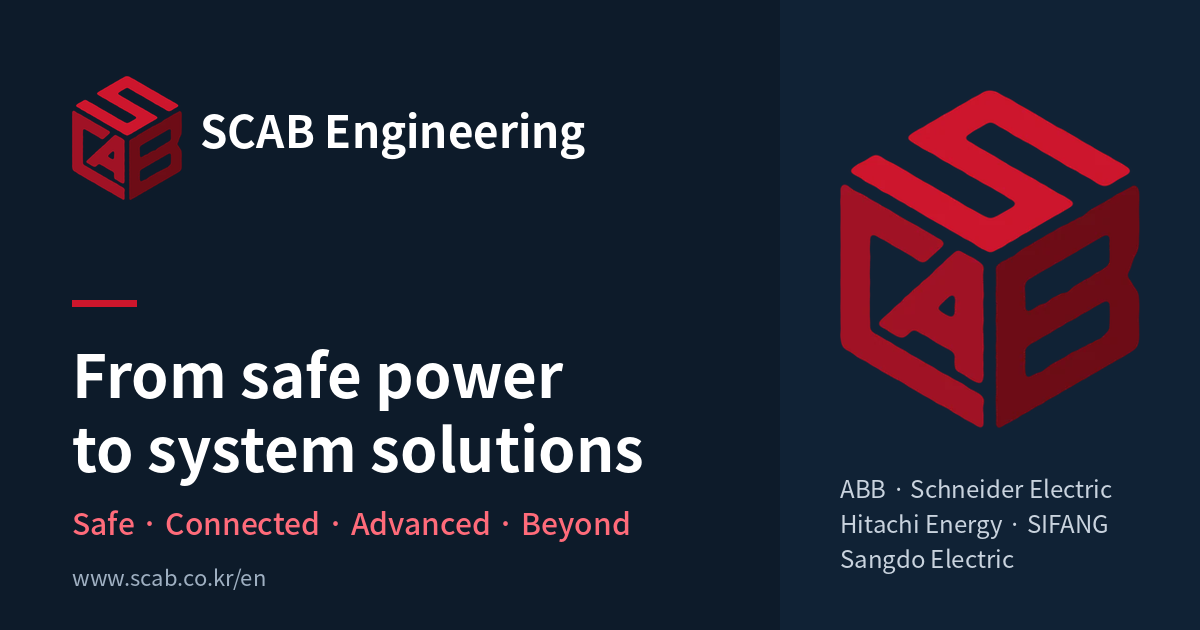
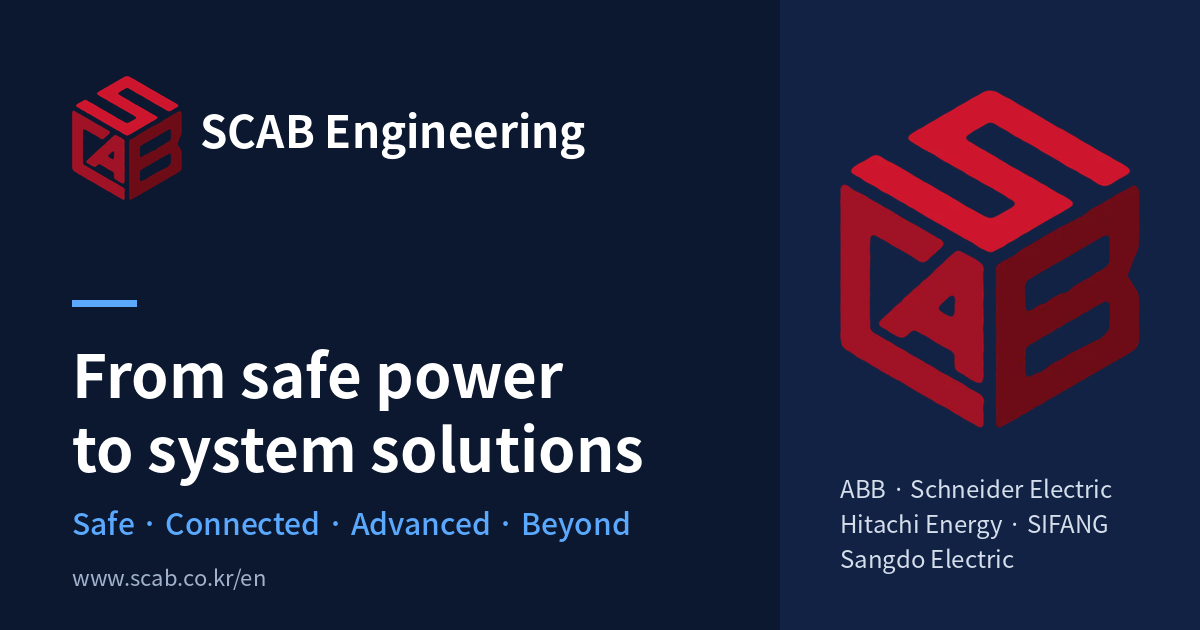
Switch site tone to Power Blue (KO/EN, OG images, 404)
Default tone is now blue (#0057B8, dark #5AA9FF); the logo keeps its own red.
Heading accent bars, busbar toggle and 404 buttons follow the accent token.

Claude-Session: https://claude.ai/code/session_01NqrjRai6QrXnpZj5BWDwmU

Changed region(s): [[0.0617, 0.8143, 0.5242, 0.8746], [0.0617, 0.4524, 0.1233, 0.5127]]

diff --git a/index.html b/index.html
@@ -1,5 +1,5 @@
 <!doctype html>
-<html lang="ko"><head><meta charset="utf-8"><meta name="viewport" content="width=device-width,initial-scale=1,viewport-fit=cover">
+<html lang="ko" data-tone="blue"><head><meta charset="utf-8"><meta name="viewport" content="width=device-width,initial-scale=1,viewport-fit=cover">
 <meta name="robots" content="index, follow">
 <link rel="icon" href="/favicon.ico" sizes="any">
 <link rel="icon" type="image/png" sizes="32x32" href="/icon-32.png">
@@ -28,7 +28,7 @@
 <link rel="stylesheet" href="https://fonts.googleapis.com/css2?family=IBM+Plex+Mono:wght@400;500;600&family=IBM+Plex+Sans+KR:wght@300;400;500;600;700&display=swap">
 <style>
 /* Layout: ABB식 기업 사이트 구조 — 유틸리티 바 + 메가메뉴 고정 헤더, 네이비 히어로(도면 격자 + SCAB 큐브 워터마크), 흰 본문과 쿨그레이 패널 교차,
-   서브페이지는 좌측 LNB + 본문. 반응형은 컨테이너 쿼리. 톤앤매너는 data-tone으로 전환 (기본: SCAB Red · Navy, v0.6부터) */
+   서브페이지는 좌측 LNB + 본문. 반응형은 컨테이너 쿼리. 톤앤매너는 data-tone으로 전환 (기본: Power Blue, 2026-11-11부터) */
 :root{
   --ac:#C0142A; --ac-strong:#9A1022; --ac-soft:#FBEBED; --ac-hl:#FF6B7A; --ac-btn:#CD162C; --ac-btn-h:#A8121F; --ac-ink:#FFFFFF; --err:#C8102E;
   --sw-on:#D7263D; --ink:#16202A; --title:#3B4754; --muted:#5F6B77; --faint:#94A0AB; --bg:#FFFFFF; --panel:#F2F5F7; --panel-2:#E4E9EE;
@@ -271,7 +271,7 @@ ul{margin:0;padding:0;list-style:none}
 :root{--logo-red:#CD162C}
 @media (prefers-color-scheme:dark){:root:not([data-theme="light"]){--logo-red:#FF5A6A}}
 :root[data-theme="dark"]{--logo-red:#FF5A6A}
-.t2::before{content:"";position:absolute;left:0;top:0;width:36px;height:4px;background:var(--logo-red)}
+.t2::before{content:"";position:absolute;left:0;top:0;width:36px;height:4px;background:var(--ac)}
 .sec.dark .t2{color:#fff}
 .t3{font-size:21px;font-weight:700;color:var(--title);line-height:1.4}
 .lead{color:var(--muted);font-size:17px;max-width:64ch}
@@ -538,7 +538,7 @@ td.hl{color:var(--ac);font-weight:600}
 .dg-ctrl button.on{background:var(--ink);color:var(--bg);border-color:var(--ink)}
 .bbv-tg{position:absolute;top:6px;right:6px;z-index:2;display:flex;border:1px solid rgba(255,255,255,.28);background:rgba(9,20,32,.55)}
 .bbv-tg button{height:30px;padding-inline:12px;border:0;background:transparent;color:#C9D3DE;font:600 12.5px/1 var(--f-mono,ui-monospace,monospace);letter-spacing:.04em;cursor:pointer}
-.bbv-tg button.on{background:var(--ac-btn,#CD162C);color:#fff}
+.bbv-tg button.on{background:var(--ac-btn,#0057B8);color:var(--ac-ink,#fff)}
 .bbv-tg button:focus-visible{outline:2px solid #fff;outline-offset:-2px}
 .bb-sel{display:flex;align-items:center;gap:10px;flex-wrap:wrap;margin-top:12px}.bb-sel .lb{font-size:13px;color:var(--muted);font-weight:600}.bb-sel .dg-ctrl{margin-top:0}
 .dg-cap{margin-top:12px;font-size:14.5px;color:var(--ink);min-height:2.8em}
@@ -1701,18 +1701,18 @@ const A=n=>`assets/${n}.webp`;
 const RM=window.matchMedia('(prefers-reduced-motion: reduce)').matches;
 const VERSION='v0.7', VDATE='2026-11-06';
 const TONES={
- scab:{ko:'SCAB 레드 × 네이비',name:'SCAB Red · Navy',rec:true,hero:'#0D1B2A',btn:'#CD162C',ink:'#FFFFFF',ac:'#C0142A',hl:'#FF6B7A',panel:'#F2F5F7',title:'#3B4754',
+ scab:{ko:'SCAB 레드 × 네이비',name:'SCAB Red · Navy',hero:'#0D1B2A',btn:'#CD162C',ink:'#FFFFFF',ac:'#C0142A',hl:'#FF6B7A',panel:'#F2F5F7',title:'#3B4754',
   why:'회사 로고의 레드를 포인트로 쓰고 배경은 딥 네이비를 유지합니다. 레드 · 검정 조합을 피해 ABB · Hitachi Energy 사이트와 인상이 겹치지 않게 했습니다. (v0.6 기본)'},
  teal:{ko:'네이비 · 틸',name:'Grid Navy · Teal',hero:'#0D1B2A',btn:'#007A85',ink:'#FFFFFF',ac:'#007A85',hl:'#3CC8D2',panel:'#F2F5F7',title:'#3B4754',
   why:'v0.5까지의 기본 톤입니다. 딥 네이비 바탕에 Schneider 그린과 SIFANG 블루 사이의 틸을 포인트로 씁니다.'},
- blue:{ko:'파워 블루',name:'Power Blue',hero:'#0B1830',btn:'#0057B8',ink:'#FFFFFF',ac:'#0057B8',hl:'#5AA9FF',panel:'#F2F4F8',title:'#3A4658',
+ blue:{ko:'파워 블루',name:'Power Blue',rec:true,hero:'#0B1830',btn:'#0057B8',ink:'#FFFFFF',ac:'#0057B8',hl:'#5AA9FF',panel:'#F2F4F8',title:'#3A4658',
   why:'국내외 전력기기 · 전력회사에서 가장 흔한 신뢰형 블루입니다. 안정적이지만 SIFANG · 상도일렉트릭의 블루와 가깝게 보일 수 있습니다.'},
  amber:{ko:'그래파이트 · 볼트',name:'Graphite · Volt',hero:'#1B2026',btn:'#F2A900',ink:'#1A1A1A',ac:'#8A5D00',hl:'#F5B700',panel:'#F3F4F5',title:'#3F454C',
   why:'그래파이트 바탕에 전기 위험 경고 표지의 노랑에서 온 앰버를 포인트로 씁니다. 산업 현장 · 엔지니어링 성격이 강하고 취급 브랜드 색과 겹치지 않습니다.'},
  red:{ko:'SCAB 레드 (v0.1)',name:'SCAB Red',hero:'#1A1A1C',btn:'#CD162C',ink:'#FFFFFF',ac:'#CD162C',hl:'#FF5C6E',panel:'#F4F4F5',title:'#46464C',
   why:'회사 로고색을 그대로 쓴 v0.1 시안입니다. 차콜과 레드 조합이라 ABB · Hitachi Energy 사이트와 인상이 비슷합니다.'}
 };
-let tone=store.get('tone6','scab');if(!TONES[tone])tone='scab';
+let tone=/[?&]tools\b/.test(location.search)?store.get('tone6','blue'):'blue';if(!TONES[tone])tone='blue';
 document.documentElement.setAttribute('data-tone',tone);
 
 /* ---------- icons ---------- */

diff --git a/en/index.html b/en/index.html
@@ -1,5 +1,5 @@
 <!doctype html>
-<html lang="en"><head><meta charset="utf-8"><meta name="viewport" content="width=device-width,initial-scale=1,viewport-fit=cover">
+<html lang="en" data-tone="blue"><head><meta charset="utf-8"><meta name="viewport" content="width=device-width,initial-scale=1,viewport-fit=cover">
 <meta name="robots" content="index, follow">
 <link rel="icon" href="/favicon.ico" sizes="any">
 <link rel="icon" type="image/png" sizes="32x32" href="/icon-32.png">
@@ -28,7 +28,7 @@
 <link rel="stylesheet" href="https://fonts.googleapis.com/css2?family=IBM+Plex+Mono:wght@400;500;600&family=IBM+Plex+Sans+KR:wght@300;400;500;600;700&display=swap">
 <style>
 /* Layout: ABB-style corporate site — utility bar + mega-menu sticky header, navy hero (drawing grid + SCAB cube watermark), alternating white body and cool-gray panels,
-   Sub pages: left LNB + body. Responsive via container queries. Tone switched with data-tone (default: SCAB Red · Navy since v0.6) */
+   Sub pages: left LNB + body. Responsive via container queries. Tone switched with data-tone (default: Power Blue since 2026-11-11) */
 :root{
   --ac:#C0142A; --ac-strong:#9A1022; --ac-soft:#FBEBED; --ac-hl:#FF6B7A; --ac-btn:#CD162C; --ac-btn-h:#A8121F; --ac-ink:#FFFFFF; --err:#C8102E;
   --sw-on:#D7263D; --ink:#16202A; --title:#3B4754; --muted:#5F6B77; --faint:#94A0AB; --bg:#FFFFFF; --panel:#F2F5F7; --panel-2:#E4E9EE;
@@ -271,7 +271,7 @@ ul{margin:0;padding:0;list-style:none}
 :root{--logo-red:#CD162C}
 @media (prefers-color-scheme:dark){:root:not([data-theme="light"]){--logo-red:#FF5A6A}}
 :root[data-theme="dark"]{--logo-red:#FF5A6A}
-.t2::before{content:"";position:absolute;left:0;top:0;width:36px;height:4px;background:var(--logo-red)}
+.t2::before{content:"";position:absolute;left:0;top:0;width:36px;height:4px;background:var(--ac)}
 .sec.dark .t2{color:#fff}
 .t3{font-size:21px;font-weight:700;color:var(--title);line-height:1.4}
 .lead{color:var(--muted);font-size:17px;max-width:64ch}
@@ -538,7 +538,7 @@ td.hl{color:var(--ac);font-weight:600}
 .dg-ctrl button.on{background:var(--ink);color:var(--bg);border-color:var(--ink)}
 .bbv-tg{position:absolute;top:6px;right:6px;z-index:2;display:flex;border:1px solid rgba(255,255,255,.28);background:rgba(9,20,32,.55)}
 .bbv-tg button{height:30px;padding-inline:12px;border:0;background:transparent;color:#C9D3DE;font:600 12.5px/1 var(--f-mono,ui-monospace,monospace);letter-spacing:.04em;cursor:pointer}
-.bbv-tg button.on{background:var(--ac-btn,#CD162C);color:#fff}
+.bbv-tg button.on{background:var(--ac-btn,#0057B8);color:var(--ac-ink,#fff)}
 .bbv-tg button:focus-visible{outline:2px solid #fff;outline-offset:-2px}
 .bb-sel{display:flex;align-items:center;gap:10px;flex-wrap:wrap;margin-top:12px}.bb-sel .lb{font-size:13px;color:var(--muted);font-weight:600}.bb-sel .dg-ctrl{margin-top:0}
 .dg-cap{margin-top:12px;font-size:14.5px;color:var(--ink);min-height:2.8em}
@@ -1707,18 +1707,18 @@ const A=n=>`../assets/${n}.webp`;
 const RM=window.matchMedia('(prefers-reduced-motion: reduce)').matches;
 const VERSION='v0.7', VDATE='2026-11-06';
 const TONES={
- scab:{ko:'SCAB Red × Navy',name:'SCAB Red · Navy',rec:true,hero:'#0D1B2A',btn:'#CD162C',ink:'#FFFFFF',ac:'#C0142A',hl:'#FF6B7A',panel:'#F2F5F7',title:'#3B4754',
+ scab:{ko:'SCAB Red × Navy',name:'SCAB Red · Navy',hero:'#0D1B2A',btn:'#CD162C',ink:'#FFFFFF',ac:'#C0142A',hl:'#FF6B7A',panel:'#F2F5F7',title:'#3B4754',
   why:'Uses the logo red as the accent on a deep navy background. Avoids the red-and-black pairing so the site does not resemble ABB or Hitachi Energy. (v0.6 default)'},
  teal:{ko:'Navy · Teal',name:'Grid Navy · Teal',hero:'#0D1B2A',btn:'#007A85',ink:'#FFFFFF',ac:'#007A85',hl:'#3CC8D2',panel:'#F2F5F7',title:'#3B4754',
   why:'Default tone up to v0.5. Deep navy with a teal accent between Schneider green and SIFANG blue.'},
- blue:{ko:'Power Blue',name:'Power Blue',hero:'#0B1830',btn:'#0057B8',ink:'#FFFFFF',ac:'#0057B8',hl:'#5AA9FF',panel:'#F2F4F8',title:'#3A4658',
+ blue:{ko:'Power Blue',name:'Power Blue',rec:true,hero:'#0B1830',btn:'#0057B8',ink:'#FFFFFF',ac:'#0057B8',hl:'#5AA9FF',panel:'#F2F4F8',title:'#3A4658',
   why:'The trusted blue most common among power equipment makers and utilities. Stable, but it may look close to the blues of SIFANG and Sangdo Electric.'},
  amber:{ko:'Graphite · Volt',name:'Graphite · Volt',hero:'#1B2026',btn:'#F2A900',ink:'#1A1A1A',ac:'#8A5D00',hl:'#F5B700',panel:'#F3F4F5',title:'#3F454C',
   why:'A graphite base with an amber accent taken from electrical hazard signs. Strong industrial and engineering character, with no overlap with brand colors.'},
  red:{ko:'SCAB Red (v0.1)',name:'SCAB Red',hero:'#1A1A1C',btn:'#CD162C',ink:'#FFFFFF',ac:'#CD162C',hl:'#FF5C6E',panel:'#F4F4F5',title:'#46464C',
   why:'The v0.1 draft using the company logo color. The charcoal and red combination resembles the ABB and Hitachi Energy websites.'}
 };
-let tone=store.get('tone6','scab');if(!TONES[tone])tone='scab';
+let tone=/[?&]tools\b/.test(location.search)?store.get('tone6','blue'):'blue';if(!TONES[tone])tone='blue';
 document.documentElement.setAttribute('data-tone',tone);
 
 /* ---------- icons ---------- */

diff --git a/404.html b/404.html
@@ -4,8 +4,8 @@
 <title>페이지를 찾을 수 없습니다 | (주)에스캡엔지니어링</title>
 <link rel="icon" href="/favicon.ico" sizes="any">
 <style>
-:root{--bg:#F5F7FA;--fg:#131A22;--muted:#596574;--ac:#C0142A;--line:#DCE1E7}
-@media (prefers-color-scheme:dark){:root{--bg:#0D1B2A;--fg:#E7ECF1;--muted:#9CA8B6;--ac:#FF5A6A;--line:#29333F;color-scheme:dark}}
+:root{--bg:#F5F7FA;--fg:#131A22;--muted:#596574;--ac:#0057B8;--line:#DCE1E7}
+@media (prefers-color-scheme:dark){:root{--bg:#0B1830;--fg:#E7ECF1;--muted:#9CA8B6;--ac:#5AA9FF;--ac-ink:#061326;--line:#29333F;color-scheme:dark}}
 body{margin:0;min-height:100vh;display:grid;place-items:center;background:var(--bg);color:var(--fg);font-family:"IBM Plex Sans KR","Apple SD Gothic Neo","Noto Sans KR",system-ui,sans-serif;padding:24px 16px;box-sizing:border-box}
 main{max-width:520px;display:grid;gap:14px}
 .code{font-family:ui-monospace,"SF Mono",Menlo,monospace;color:var(--ac);font-weight:600;letter-spacing:.08em}
@@ -13,7 +13,7 @@ h1{margin:0;font-size:26px;line-height:1.35}
 p{margin:0;color:var(--muted);line-height:1.65}
 nav{display:flex;gap:10px;flex-wrap:wrap;margin-top:6px}
 a{display:inline-flex;align-items:center;height:42px;padding:0 18px;border:1px solid var(--line);color:var(--fg);text-decoration:none;font-weight:600}
-a.pri{background:var(--ac);border-color:var(--ac);color:#fff}
+a.pri{background:var(--ac);border-color:var(--ac);color:var(--ac-ink,#fff)}
 a:focus-visible{outline:2px solid var(--ac);outline-offset:2px}
 </style></head>
 <body><main>
